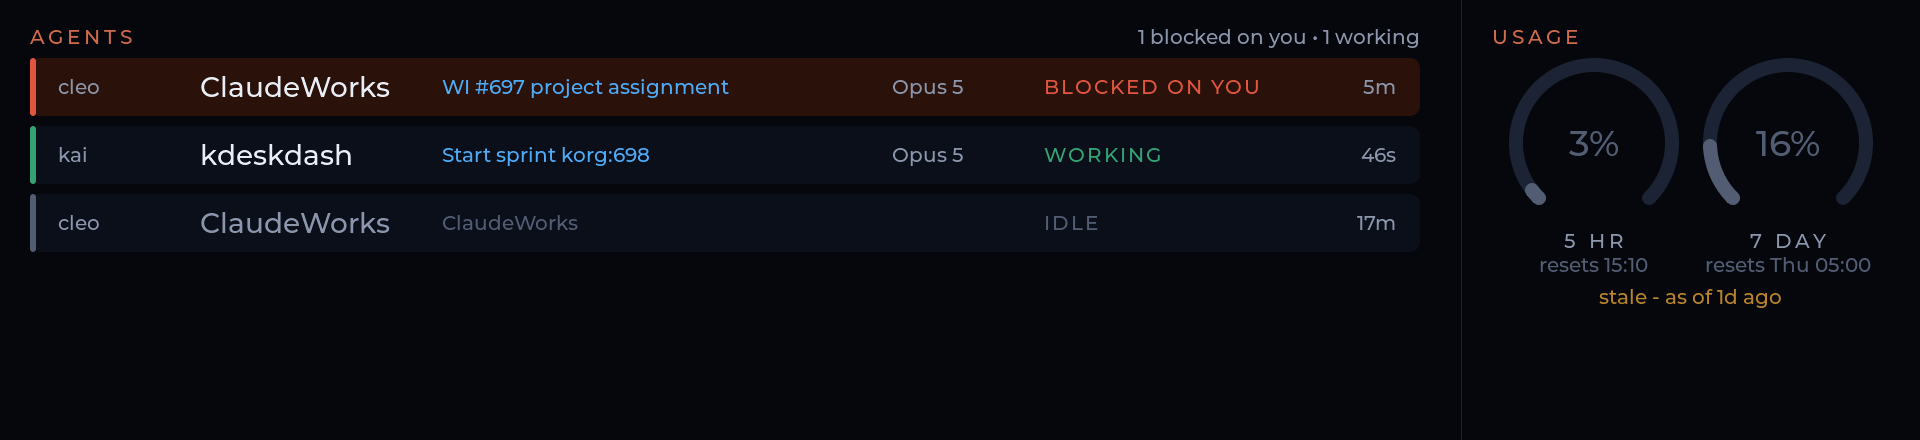
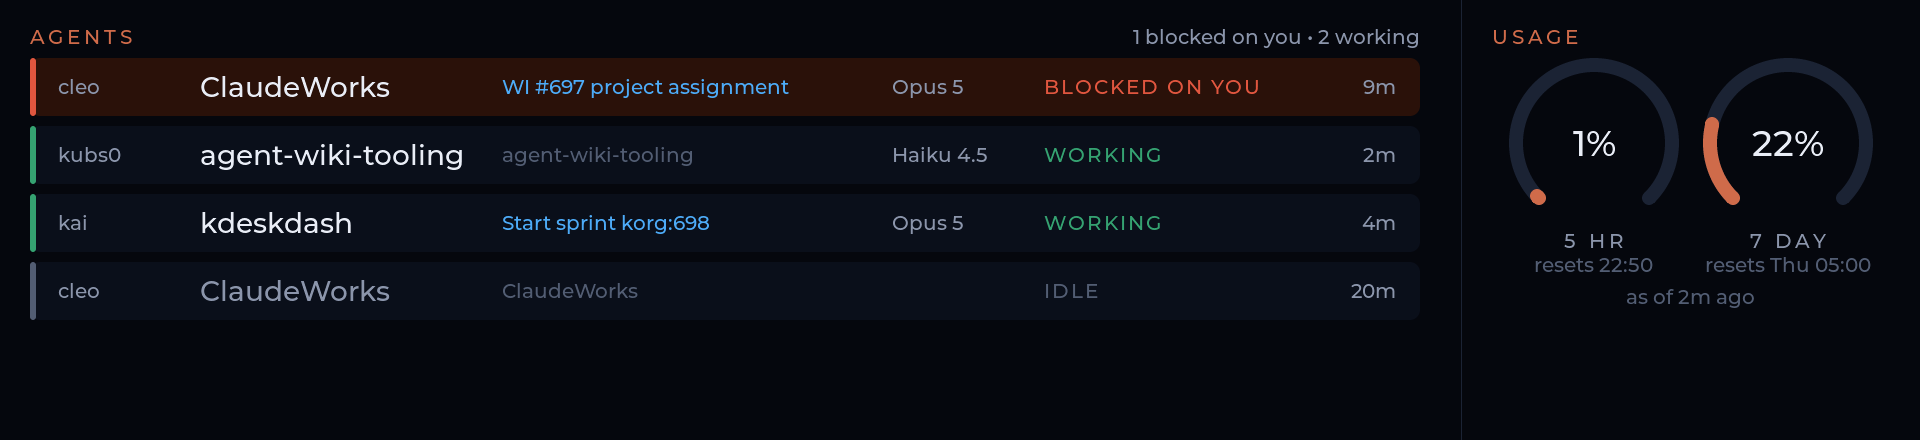
fix(020): widen the proj column so longer repo names don't clip
Re-shooting the hero with fresh usage gauges surfaced "agent-wiki-to…"
on the kubs0 row: 280px was sized against the short project names that
happened to be live when the layout was tuned. proj is the row's stable
identifier, so it wins the tie against the title, which reads fine
truncated. 280 fits the fleet's longest (18ch at montserrat_28), leaving
the title ~368px.

Also refreshes the hero image now that the usage snapshot is live rather
than a day stale.

diff --git a/src/modes/claude.c b/src/modes/claude.c
@@ -163,9 +163,12 @@ static void make_row(claude_state_t *st, lv_obj_t *parent, int i) {
     lv_label_set_long_mode(r->host, LV_LABEL_LONG_DOT);
 
     /* proj is the stable identifier (fixed); the session name is the element
-     * that soaks up the width RECENT gave back, and ellipsises when it can't. */
+     * that soaks up the width RECENT gave back, and ellipsises when it can't.
+     * 280 fits the fleet's longest repo name ("agent-wiki-tooling", 18ch at
+     * montserrat_28) — the identifier is the one field that must not clip, so
+     * it wins the tie against the title, which reads fine truncated. */
     r->proj = make_label(r->row, &lv_font_montserrat_28, COLOR_INK);
-    lv_obj_set_width(r->proj, 220);
+    lv_obj_set_width(r->proj, 280);
     lv_label_set_long_mode(r->proj, LV_LABEL_LONG_DOT);
 
     r->title = make_label(r->row, &lv_font_montserrat_20, COLOR_TITLE);
